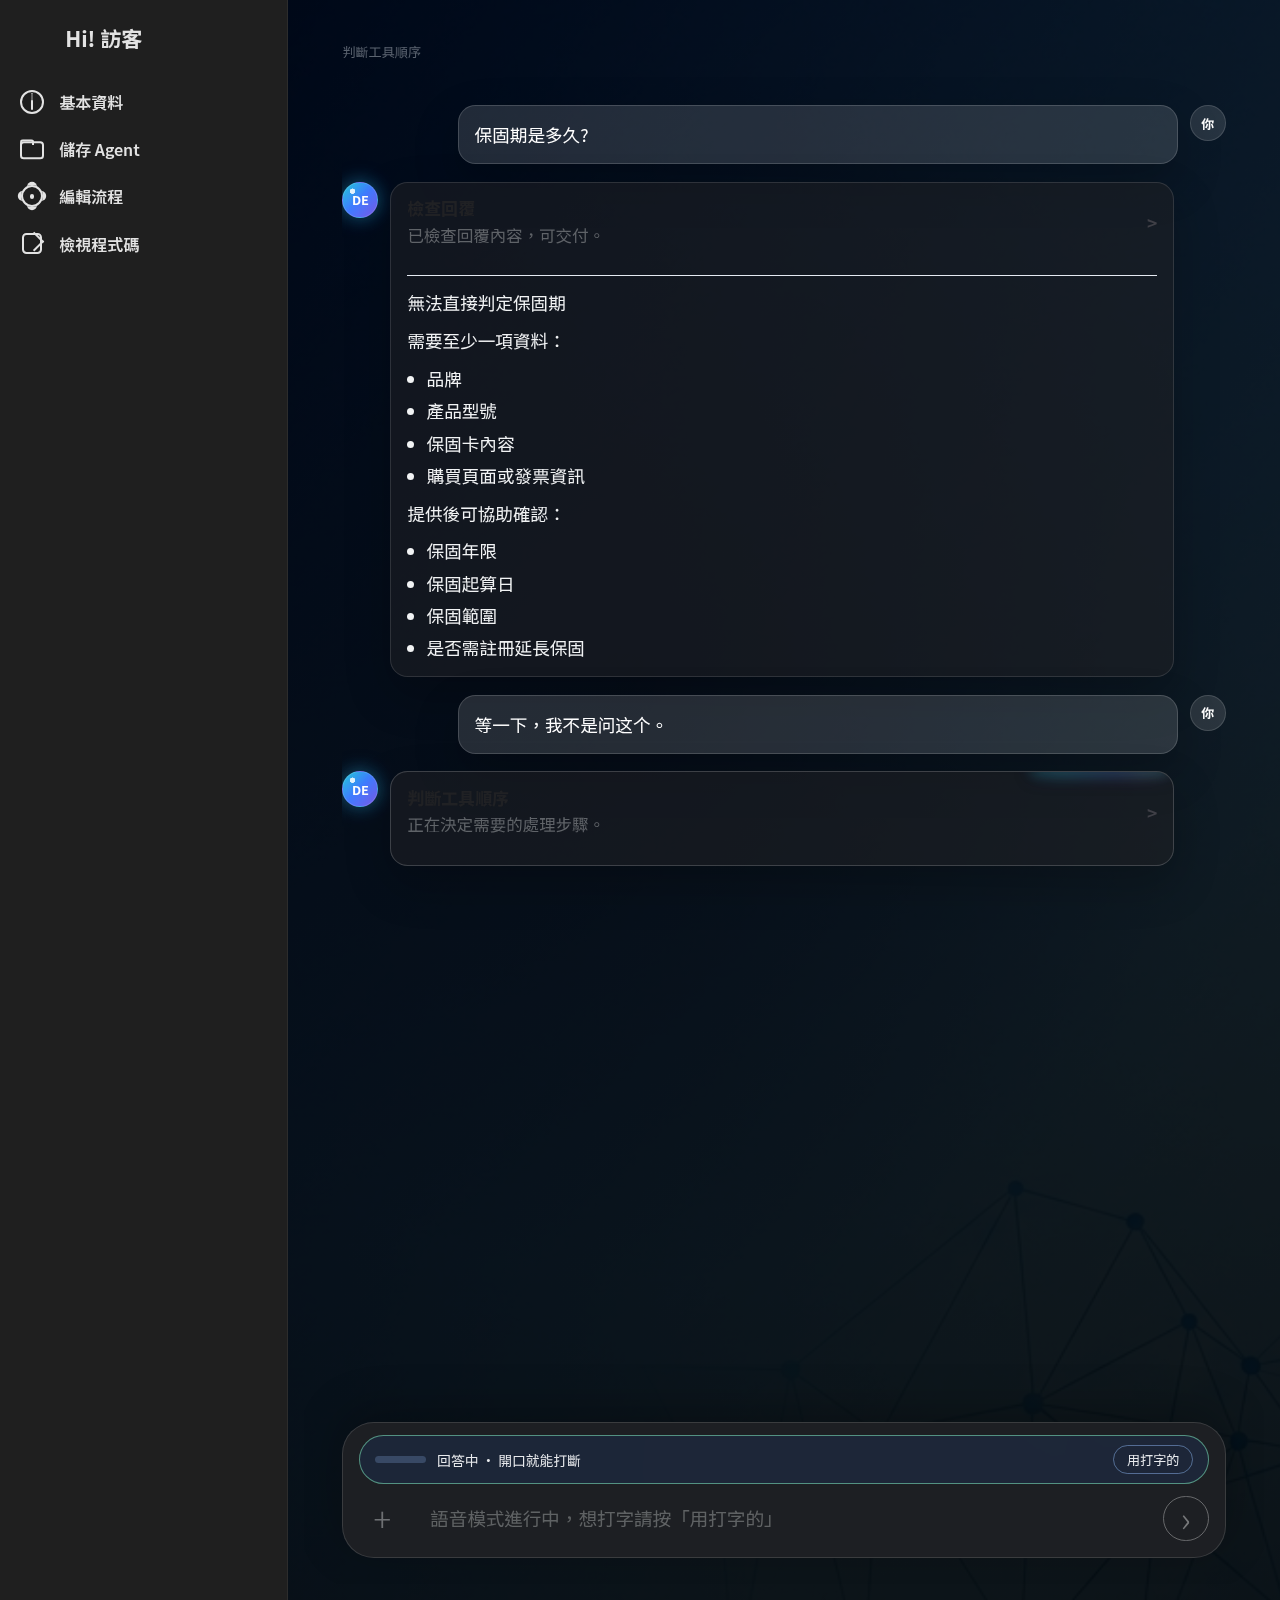
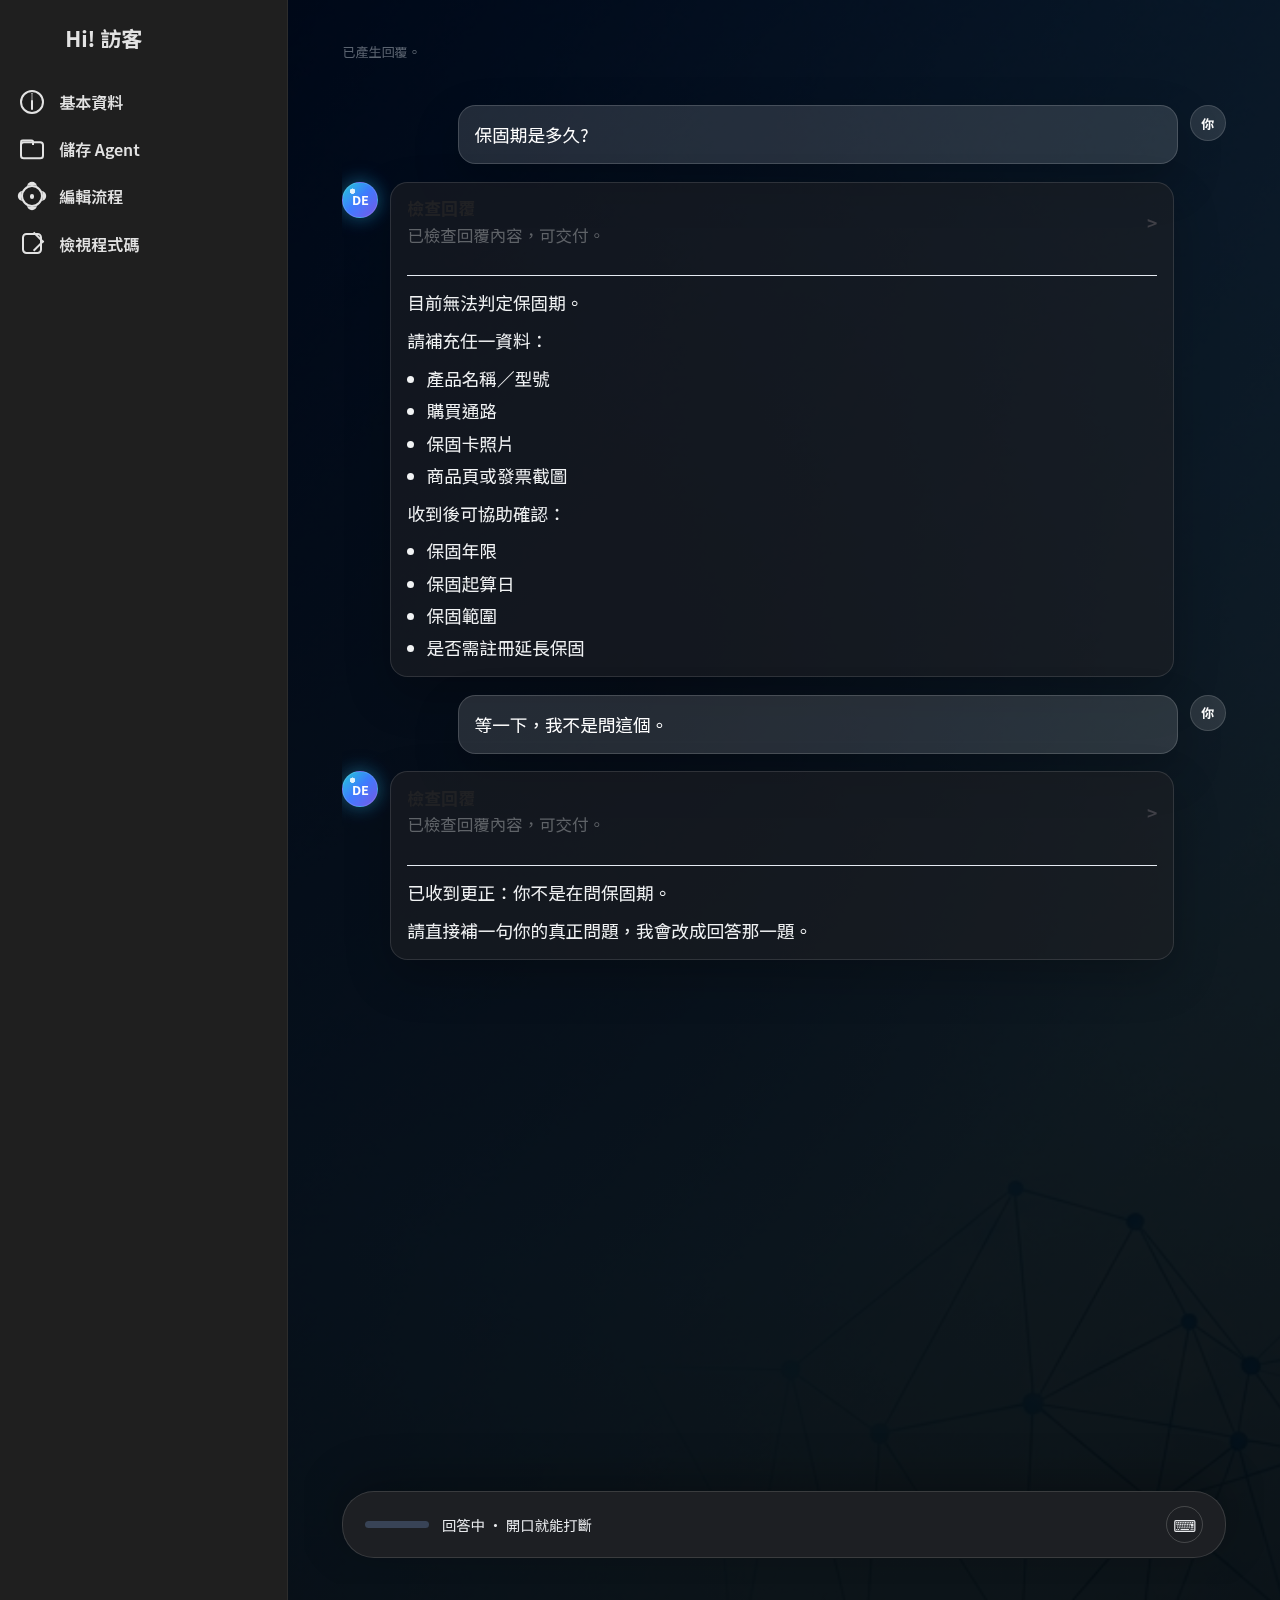
Make voice a mode of the composer, not a row stacked on top of it
The bar above the text box was an extra thing to look at and it left both
inputs on screen at once. A microphone beside the send button is the control
people already reach for, so it goes there: pressing it turns the whole
composer into the voice display, and a keyboard icon sits where send was, to
come back.

The microphone needed its own grid column. Squeezed in as a fourth child of a
three-column row it pushed the send button onto a second line.

A voice agent opens in voice mode, because it opens its microphone on load and
a mode the person has to switch on would contradict that.

diff --git a/playground/static/css/app.css b/playground/static/css/app.css
@@ -2807,22 +2807,50 @@ a { color: inherit; text-decoration: none; }
   font-weight: 700;
 }
 
-.voice-bar {
-  display: flex;
+/* The voice row stands in for the typing row, in the same place and at the
+   same height, so switching modes moves nothing on the page. */
+.composer-voice-row {
+  display: none;
   align-items: center;
-  gap: 0.7rem;
-  margin: 0 0 0.5rem;
-  padding: 0.55rem 0.9rem;
-  border: 1px solid rgba(120, 170, 255, 0.35);
+  gap: 0.8rem;
+  min-height: 2.6rem;
+  padding: 0 0.35rem;
+  font-size: 0.9rem;
+}
+
+.runner-page.is-voice-live .composer-voice-row {
+  display: flex;
+}
+
+.runner-page.is-voice-live .composer-main-row,
+.runner-page.is-voice-live .composer-attachment-preview {
+  display: none;
+}
+
+.composer-icon-button {
+  flex: 0 0 auto;
+  justify-self: end;
+  display: grid;
+  place-items: center;
+  width: 2.3rem;
+  height: 2.3rem;
+  border: 1px solid rgba(255, 255, 255, 0.18);
   border-radius: 999px;
-  background: rgba(30, 60, 110, 0.28);
-  font-size: 0.86rem;
+  background: transparent;
+  color: inherit;
+  cursor: pointer;
+  font-size: 1rem;
+  line-height: 1;
+}
+
+.composer-icon-button:hover {
+  border-color: rgba(255, 255, 255, 0.4);
 }
 
 .voice-orb {
   position: relative;
   flex: 0 0 auto;
-  width: 3.2rem;
+  width: 4rem;
   height: 0.4rem;
   overflow: hidden;
   border-radius: 999px;
@@ -2844,37 +2872,12 @@ a { color: inherit; text-decoration: none; }
   flex: 1 1 auto;
 }
 
-.voice-switch {
-  flex: 0 0 auto;
-  padding: 0.25rem 0.8rem;
-  border: 1px solid rgba(140, 180, 240, 0.5);
-  border-radius: 999px;
-  background: transparent;
-  color: inherit;
-  cursor: pointer;
-  font-size: 0.82rem;
-}
-
 /* Speaking and being interrupted are the two states a person needs to read at
    a glance, so they are the two that change colour. */
-.voice-bar[data-voice-state="speaking"] { border-color: rgba(120, 220, 180, 0.6); }
-.voice-bar[data-voice-state="interrupted"] { border-color: rgba(255, 200, 120, 0.7); }
-.voice-bar[data-voice-state="paused"] { opacity: 0.6; }
-.voice-bar[data-voice-state="denied"],
-.voice-bar[data-voice-state="unavailable"] { border-color: rgba(255, 140, 140, 0.7); }
-
-/* One input at a time: while the microphone is live the typing row is not.
-   Only that row — the voice bar sits inside the composer and its button has to
-   stay clickable, since it is the way back to the keyboard. */
-.runner-page.is-voice-live .composer-main-row,
-.runner-page.is-voice-live .composer-attachment-preview {
-  opacity: 0.4;
-  pointer-events: none;
-}
-
-.voice-bar + label {
-  margin-top: 0.1rem;
-}
+.composer-voice-row[data-voice-state="speaking"] .voice-orb i { background: #6fe0b0; }
+.composer-voice-row[data-voice-state="interrupted"] .voice-orb i { background: #ffc878; }
+.composer-voice-row[data-voice-state="denied"] .voice-state,
+.composer-voice-row[data-voice-state="unavailable"] .voice-state { color: #ff9c9c; }
 
 .runner-status {
   margin: 0 0 0.4rem;
@@ -2937,7 +2940,9 @@ a { color: inherit; text-decoration: none; }
 
 .composer-main-row {
   display: grid;
-  grid-template-columns: auto minmax(0, 1fr) auto;
+  /* The microphone is a fourth column, not an extra child squeezed into three:
+     without its own track the send button wrapped onto a second line. */
+  grid-template-columns: auto minmax(0, 1fr) auto auto;
   min-height: 3.35rem;
   gap: 0.72rem;
   align-items: center;

diff --git a/playground/templates/runner.html b/playground/templates/runner.html
@@ -109,13 +109,6 @@
 
       <p class="runner-status" data-run-status role="status" aria-live="polite"></p>
       <form class="input-composer chat-composer" data-input-composer>
-        {% if uses_voice %}
-        <div class="voice-bar" data-voice-bar data-voice-state="starting">
-          <span class="voice-orb" data-voice-orb aria-hidden="true"><i data-voice-level></i></span>
-          <span class="voice-state" data-voice-state-text role="status" aria-live="polite">正在開啟麥克風…</span>
-          <button class="voice-switch" type="button" data-voice-switch>用打字的</button>
-        </div>
-        {% endif %}
         <label for="runner-message">輸入訊息</label>
         <div class="composer-attachment-preview" data-artifact-list aria-label="已選擇的參考資料"></div>
         <div class="composer-main-row">
@@ -126,8 +119,18 @@
             <input class="visually-hidden" id="runner-attachments" name="attachments" type="file" multiple data-attachment-input>
           </div>
           <textarea id="runner-message" name="message" rows="1" placeholder="問問 Agent"></textarea>
+          {% if uses_voice %}
+          <button class="composer-icon-button" type="button" data-voice-toggle="voice" aria-label="改用語音" title="改用語音"><span aria-hidden="true">🎤</span></button>
+          {% endif %}
           <button class="composer-submit-button" type="submit" aria-label="送出訊息"><span aria-hidden="true">›</span><span class="visually-hidden">產生回覆</span></button>
         </div>
+        {% if uses_voice %}
+        <div class="composer-voice-row" data-voice-bar data-voice-state="starting">
+          <span class="voice-orb" data-voice-orb aria-hidden="true"><i data-voice-level></i></span>
+          <span class="voice-state" data-voice-state-text role="status" aria-live="polite">正在開啟麥克風…</span>
+          <button class="composer-icon-button" type="button" data-voice-toggle="text" aria-label="改用打字" title="改用打字"><span aria-hidden="true">⌨</span></button>
+        </div>
+        {% endif %}
         <p class="inline-status" data-attachment-status>尚未選擇附件。</p>
       </form>
     </section>

diff --git a/playground/static/js/runner/runner-page.js b/playground/static/js/runner/runner-page.js
@@ -981,7 +981,7 @@ bindInputComposer(form, async (payload) => {
 const voiceBar = document.querySelector("[data-voice-bar]");
 const voiceStateText = document.querySelector("[data-voice-state-text]");
 const voiceLevel = document.querySelector("[data-voice-level]");
-const voiceSwitch = document.querySelector("[data-voice-switch]");
+const voiceToggles = document.querySelectorAll("[data-voice-toggle]");
 
 const VOICE_STATES = {
 	starting: "正在開啟麥克風…",
@@ -1004,13 +1004,9 @@ function showVoiceState(state, detail) {
 	if (voiceStateText) {
 		voiceStateText.textContent = state === "heard" && detail ? `聽到了：「${detail}」` : VOICE_STATES[state] || state;
 	}
-	if (voiceSwitch) {
-		voiceSwitch.textContent = state === "paused" ? "回到語音" : "用打字的";
-		voiceSwitch.hidden = state === "denied" || state === "unavailable" || state === "closed";
-	}
-	// Exactly one input is live at a time. Two of them racing produces two
-	// turns for one question, and the agent answers something the person was
-	// still in the middle of saying.
+	// Exactly one input exists at a time: in voice mode the typing row is not
+	// dimmed, it is not there. Two inputs racing produce two turns for one
+	// question, and the agent answers something the person was still saying.
 	const typing = state === "paused" || state === "denied" || state === "unavailable" || state === "closed";
 	runnerPage?.classList.toggle("is-voice-live", !typing);
 	if (messageInput) {
@@ -1042,13 +1038,15 @@ const voice = bindVoiceConversation(runnerPage, {
 	},
 });
 
-voiceSwitch?.addEventListener("click", () => {
-	if (voiceBar?.dataset.voiceState === "paused") {
-		voice?.resume();
-		return;
-	}
-	voice?.pause();
-	messageInput?.focus();
+voiceToggles.forEach((toggle) => {
+	toggle.addEventListener("click", () => {
+		if (toggle.dataset.voiceToggle === "voice") {
+			voice?.resume();
+			return;
+		}
+		voice?.pause();
+		messageInput?.focus();
+	});
 });
 
 starterQuestions?.addEventListener("click", (event) => {

diff --git a/tests/test_voice_builder.py b/tests/test_voice_builder.py
@@ -136,11 +136,14 @@ def test_a_voice_agent_says_on_the_page_that_it_is_listening():
         page = client.get("/playground/run").get_data(as_text=True)
 
     assert "data-voice-bar" in page
-    assert "data-voice-switch" in page
-    # Inside the composer, so the two inputs are one control and cannot drift
-    # apart on the page.
+    # Both ways between the modes, each an icon in the place the other one's
+    # control sits, so switching moves nothing on the page.
+    assert 'data-voice-toggle="voice"' in page
+    assert 'data-voice-toggle="text"' in page
+    # The voice row stands in for the typing row inside the composer rather
+    # than stacking above it.
     composer = page[page.index("data-input-composer") :]
-    assert composer.index("data-voice-bar") < composer.index("runner-message")
+    assert composer.index("runner-message") < composer.index("data-voice-bar")
 
 
 def test_a_typing_agent_gets_no_voice_bar():

diff --git a/spikes/realtime-interjection/walk_the_seam.py b/spikes/realtime-interjection/walk_the_seam.py
@@ -224,9 +224,15 @@ async def main() -> int:
                     await browser.shoot("answering-aloud")
                 if second == 26:
                     await browser.shoot("after-the-interruption")
+                if second == 36:
+                    await browser.evaluate(
+                        "document.querySelector('[data-voice-toggle=\"voice\"]')?.click() || true"
+                    )
+                    await asyncio.sleep(1)
+                    await browser.shoot("back-to-voice")
                 if second == 32:
                     await browser.evaluate(
-                        "document.querySelector('[data-voice-switch]')?.click() || true"
+                        "document.querySelector('[data-voice-toggle=\"text\"]')?.click() || true"
                     )
                     await asyncio.sleep(1)
                     await browser.shoot("switched-to-typing")
